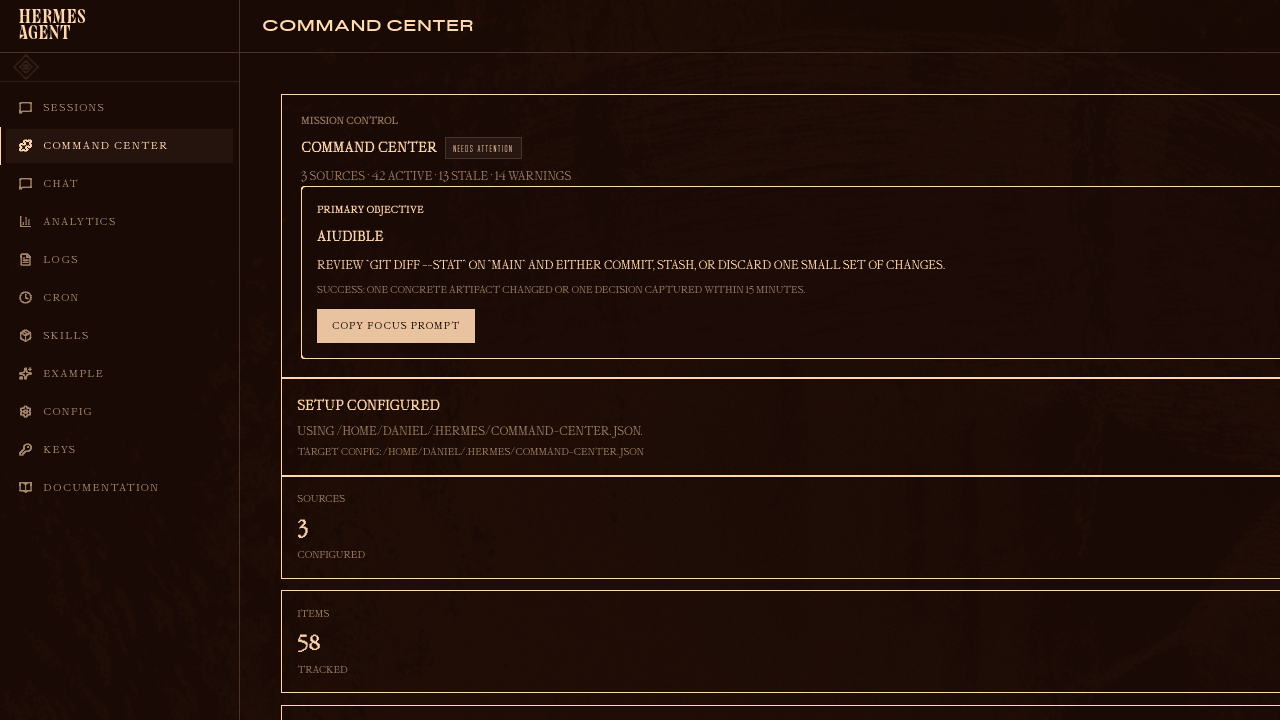
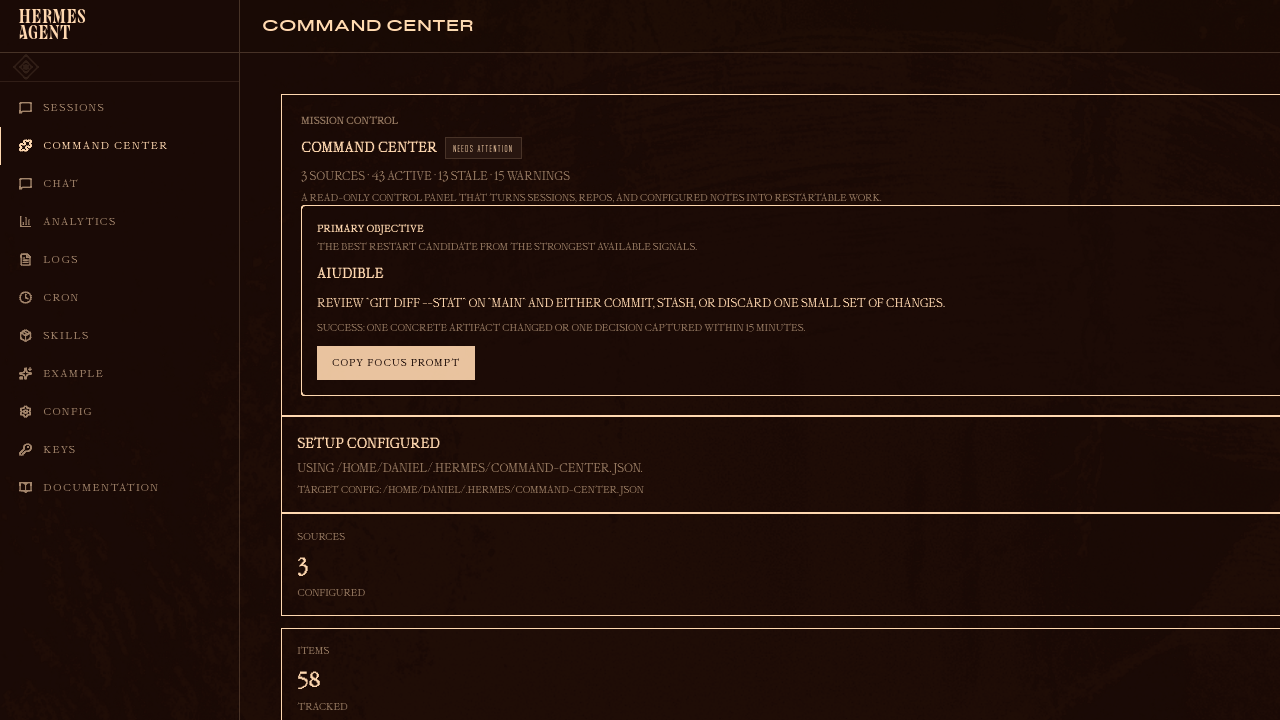
Add concise section guidance and stronger restart prompts

Changed region(s): [[0.2188, 0.2139, 1.0, 1.0]]

diff --git a/dashboard/dist/index.js b/dashboard/dist/index.js
@@ -100,16 +100,18 @@
               e("h1", { className: "text-3xl font-semibold tracking-tight" }, "Command Center"),
               e(Badge, { variant: status === "Critical" ? "destructive" : "secondary" }, status)
             ),
-            e("p", { className: "mt-2 text-sm text-muted-foreground" }, summary)
+            e("p", { className: "mt-2 text-sm text-muted-foreground" }, summary),
+            e("p", { className: "mt-1 text-xs text-muted-foreground" }, "A read-only control panel that turns sessions, repos, and configured notes into restartable work.")
           ),
           e("div", { className: "flex items-center gap-2" },
             copied ? e(Badge, { variant: copied === "Copied" ? "default" : "destructive" }, copied) : null,
             e(Button, { variant: "outline", onClick: load }, loading ? "Refreshing…" : "Refresh"),
-            e(Button, { variant: "secondary", onClick: function () { copy("Review my Command Center source diagnostics, work health checks, and restart scripts. Recommend the one best next action.", setCopied); } }, "Copy review prompt")
+            e(Button, { variant: "secondary", onClick: function () { copy("Use my Command Center dashboard as context. Review the source diagnostics, attention queue, primary objective, mission feed, health checks, and restart scripts. Separate high-confidence structured signals (git/session/API state) from weak freeform note signals. Recommend exactly one next action I can do in 15 minutes, explain why, and give me the first command/file to open.", setCopied); } }, "Copy review prompt")
           )
         ),
         e("div", { className: "mt-5 rounded-lg border border-border/70 bg-background/50 p-4" },
           e("div", { className: "text-xs font-semibold uppercase tracking-[0.18em] text-primary" }, "Primary Objective"),
+          e("p", { className: "mt-1 text-xs text-muted-foreground" }, "The best restart candidate from the strongest available signals."),
           start ? [
             e("div", { key: "title", className: "mt-2 text-xl font-semibold" }, start.title),
             e("div", { key: "do", className: "mt-2 text-sm leading-6" }, start.do_first),
@@ -157,7 +159,10 @@
     });
     queue = queue.slice(0, 6);
     return e(Card, null,
-      e(CardHeader, { className: "pb-2" }, e(CardTitle, null, "Attention Queue")),
+      e(CardHeader, { className: "pb-2" },
+        e(CardTitle, null, "Attention Queue"),
+        e("p", { className: "text-xs text-muted-foreground" }, "Alerts and stale items that should be seen before browsing the full feed.")
+      ),
       e(CardContent, { className: "grid gap-3 md:grid-cols-2 xl:grid-cols-3" },
         queue.length ? queue.map(function (q, idx) {
           return e("div", { key: idx, className: cls("rounded-lg border p-3", severityClass(q.severity)) },
@@ -234,7 +239,7 @@
     var item = props.item;
     var setCopied = props.setCopied;
     var action = item.recommended_action || (item.next_actions && item.next_actions[0]);
-    var prompt = action ? "Help me make progress on " + item.title + ": " + action.text : "Review this item and suggest one next action: " + item.title;
+    var prompt = action ? "Continue this Command Center item. Item: " + item.title + "\nSource: " + (item.source_label || item.source || item.type) + "\nPath: " + (item.path || item.relative_path || "unknown") + "\nCurrent signal: " + (item.summary || "No summary") + "\nRecommended action: " + action.text + "\n\nHelp me make one focused 15-minute push. First verify whether this is a strong structured signal or a weak note signal, then give me exactly: 1) what to open/run first, 2) the smallest useful action, 3) what counts as done, 4) where to stop." : "Review this Command Center item and suggest one 15-minute next action: " + item.title;
     return e(Card, { className: cls("border", itemClass(item)) },
       e(CardContent, { className: "p-4" },
         e("div", { className: "flex items-start justify-between gap-3" },
@@ -371,7 +376,10 @@
       e("div", { className: "grid gap-5 xl:grid-cols-[1fr_380px]" },
         e("div", { className: "space-y-5" },
           e(Card, null,
-            e(CardHeader, { className: "pb-2" }, e(CardTitle, null, "Source Diagnostics")),
+            e(CardHeader, { className: "pb-2" },
+              e(CardTitle, null, "Source Diagnostics"),
+              e("p", { className: "text-xs text-muted-foreground" }, "Which local systems are connected and how many signals they contribute.")
+            ),
             e(CardContent, { className: "grid gap-3 md:grid-cols-2 xl:grid-cols-3" },
               sources.length ? sources.map(function (s) { return e(SourceCard, { key: s.id, source: s }); }) : e("p", { className: "text-sm text-muted-foreground" }, "No sources configured.")
             )
@@ -379,7 +387,10 @@
 
           e("div", { className: "space-y-3" },
             e("div", { className: "flex flex-wrap items-center justify-between gap-2" },
-              e("h2", { className: "text-lg font-semibold" }, "Mission Feed"),
+              e("div", null,
+                e("h2", { className: "text-lg font-semibold" }, "Mission Feed"),
+                e("p", { className: "text-xs text-muted-foreground" }, "All restartable items from configured sources; use filters to separate code, sessions, and notes.")
+              ),
               e("div", { className: "flex flex-wrap gap-2" },
                 ["active", "stale", "code", "sessions", "health", "paused", "waiting", "done", "all"].map(function (name) {
                   return e(Button, { key: name, size: "sm", variant: filter === name ? "default" : "outline", onClick: function () { setFilter(name); } }, name);
@@ -400,13 +411,19 @@
 
         e("div", { className: "space-y-5" },
           e(Card, null,
-            e(CardHeader, { className: "pb-2" }, e(CardTitle, null, "Health Checks")),
+            e(CardHeader, { className: "pb-2" },
+              e(CardTitle, null, "Health Checks"),
+              e("p", { className: "text-xs text-muted-foreground" }, "Detected friction: dirty repos, stale sessions, missing next actions, and other cleanup signals.")
+            ),
             e(CardContent, { className: "space-y-3" },
               checks.length ? checks.slice(0, 20).map(function (c) { return e(HealthCheckRow, { key: c.id, check: c, setCopied: setCopied }); }) : e("p", { className: "text-sm text-muted-foreground" }, "No health checks found.")
             )
           ),
           e(Card, null,
-            e(CardHeader, { className: "pb-2" }, e(CardTitle, null, "Restart Scripts")),
+            e(CardHeader, { className: "pb-2" },
+              e(CardTitle, null, "Restart Scripts"),
+              e("p", { className: "text-xs text-muted-foreground" }, "Copyable prompts for handing an item back to an LLM/agent without losing context.")
+            ),
             e(CardContent, { className: "space-y-3" },
               scripts.length ? scripts.slice(0, 6).map(function (s) { return e(RestartCard, { key: s.id, script: s, primary: false, setCopied: setCopied }); }) : e("p", { className: "text-sm text-muted-foreground" }, "No restart scripts available.")
             )

diff --git a/dashboard/plugin_api.py b/dashboard/plugin_api.py
@@ -466,7 +466,18 @@ def _restart_script(item: dict[str, Any], action: dict[str, Any] | None, config:
         "do_first": action_text,
         "success_condition": success,
         "stop_boundary": f"Stop after {config.focus_window_minutes} minutes or when the single action is done.",
-        "prompt": f"Help me make one focused {config.focus_window_minutes}-minute push on {item.get('title')}: {action_text}",
+        "prompt": (
+            f"Continue this Command Center item.\n"
+            f"Item: {item.get('title')}\n"
+            f"Source: {item.get('source_label') or item.get('source')}\n"
+            f"Target: {target}\n"
+            f"Reason: {reason}\n"
+            f"Recommended action: {action_text}\n\n"
+            f"Help me make one focused {config.focus_window_minutes}-minute push. "
+            "First decide whether this is a strong structured signal or a weak/freeform note signal. "
+            "Then give exactly: 1) what to open/run first, 2) the smallest useful action, "
+            "3) what counts as done, 4) where to stop."
+        ),
         "work_item_id": item.get("id"),
     }
 
